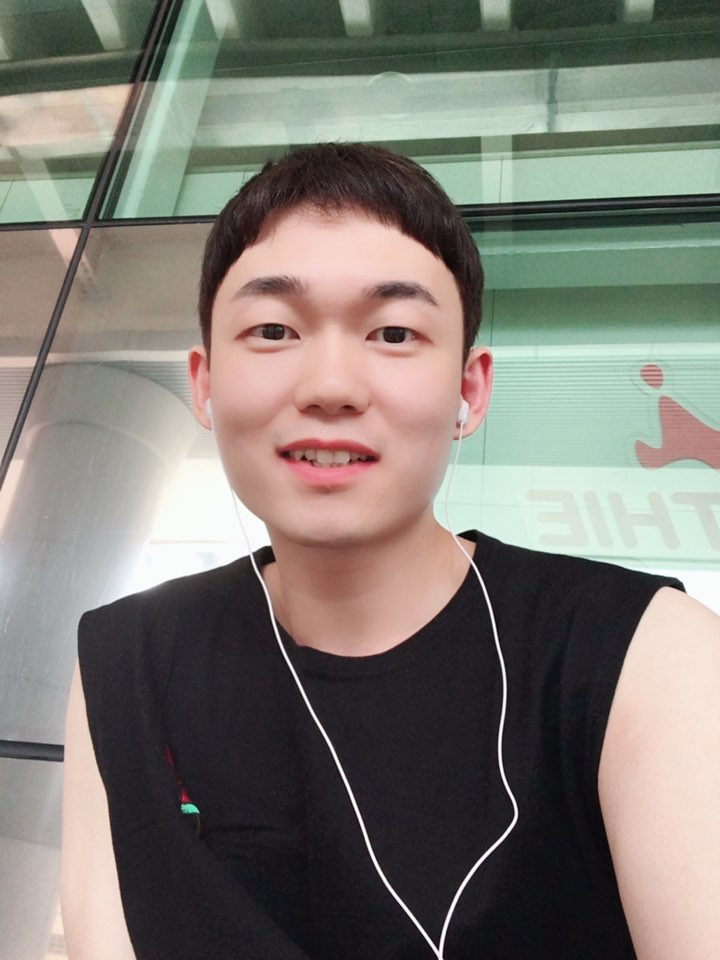
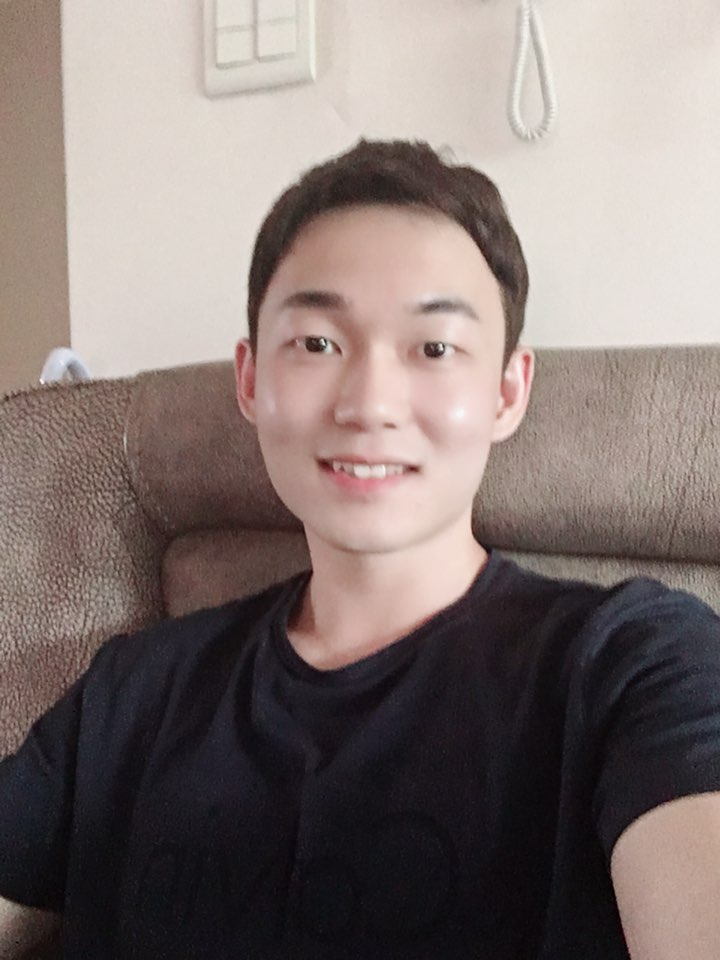
refactor: Make better

diff --git a/index.html b/index.html
@@ -19,11 +19,11 @@
     <meta charset="utf-8">
     <meta name="viewport"
           content="user-scalable=no,initial-scale=1.0,maximum-scale=1.0,minimum-scale=1.0,width=device-width">
-    <meta name="description" content="개발자..가 되고픈 진우의 이력서입니다. "/>
+    <meta name="description" content="열정 넘치는 진우의 이력서입니다! "/>
     <meta property="og:url" content="https://jinuman.github.io/resume"/>
     <meta property="og:site_name" content="지누맨 이력서"/>
     <meta property="og:title" content="지누맨 이력서"/>
-    <meta property="og:description" content="개발자..가 되고픈 진우의 이력서입니다. "/>
+    <meta property="og:description" content="열정 넘치는 진우의 이력서입니다! "/>
     <meta property="og:image" content="https://jinuman.github.io/resume/public/images/profile-og.jpeg"/>
     <meta property="og:type" content="website"/>
 
@@ -53,7 +53,7 @@
     <!-- Profile Start -->
     <div class="row mt-5">
         <div class="col-md-3 col-sm-12 pb-3 text-md-right text-center">
-            <img class="img-fluid rounded profile-img" src="public/images/profile-resize.jpg" alt="Profile">
+            <img class="img-fluid rounded profile-img" src="public/images/profileImage.jpg" alt="Profile">
         </div>
         <div class="col-md-9 col-sm-12">
             <div class="row">
@@ -151,7 +151,7 @@
                 <span class="blue">
                   SKILLS
                 </span>
-                        <small data-toggle="tooltip" title="1: 기초 / 2: 취미 / 3: 개발자">
+                        <small data-toggle="tooltip" title="1: 기초 / 2: 중급 / 3: 고급">
                             <i class="fa fa-question-circle" aria-hidden="true"></i>
                         </small>
                     </h2>
@@ -210,8 +210,8 @@
                                     Unit Test
                                 </li>
                                 <li>
-                                    <span class="badge badge-pill badge-light">1</span>
-                                    Profiler
+                                    <span class="badge badge-pill badge-secondary">2</span>
+                                    Instruments Profiler
                                 </li>
                                 <li>
                                     <span class="badge badge-pill badge-light">1</span>
@@ -232,22 +232,22 @@
                     <div class="row">
                         <div class="col">
                             <ul>
-                                <li>Nodejs</li>
                                 <li>Java</li>
-                                <li>Python 3</li>
+                                <li>nodejs</li>
+                                <li>C++</li>
                             </ul>
                         </div>
                         <div class="col">
                             <ul>
                                 <li>tensorflow</li>
-                                <li>MongoDB</li>
-                                <li>HTML, Bootstrap</li>
+                                <li>python 3</li>
+                                <li>mongodb</li>
                             </ul>
                         </div>
                         <div class="col">
                             <ul>
                                 <li>Git, Github</li>
-                                <li>Github Desktop</li>
+                                <li>Sublime Text</li>
                                 <li>Jetbrains</li>
                             </ul>
                         </div>
@@ -273,7 +273,7 @@
 
                     <div class="row">
                         <div class="col-md-3 col-12 text-md-right">
-                            <h4 class="gray">2010. 03 ~ 2019. 02</h4>
+                            <h4 class="gray">2010.03 ~ 2019.02</h4>
                         </div>
                         <div class="col-md-9 col-12">
                             <h4>경희대학교 졸업</h4>
@@ -292,14 +292,14 @@
 
                     <div class="row">
                         <div class="col-md-3 col-12 text-md-right">
-                            <h4 class="gray">2009. 02 ~ 2010. 03</h4>
+                            <h4 class="gray">2009.02 ~ 2010.03</h4>
                         </div>
                         <div class="col-md-9 col-12">
                             <h4>재수</h4>
                             <i class="gray">독서실에서 재수 생활</i>
                             <ul class="pt-2">
                                 <li>비약적인 수능점수 상승</li>
-                                <li>수리가형 5등급에서 1등급 99프로로 상승</li>
+                                <li>수리가형 5등급에서 1등급 99프로로 ↑</li>
                             </ul>
                         </div>
                     </div>
@@ -307,7 +307,7 @@
 
                     <div class="row">
                         <div class="col-md-3 col-12 text-md-right">
-                            <h4 class="gray">2006. 03 ~ 2009. 02</h4>
+                            <h4 class="gray">2006.03 ~ 2009.02</h4>
                         </div>
                         <div class="col-md-9 col-12">
                             <h4>수내고등학교 졸업</h4>
@@ -322,7 +322,7 @@
 
                     <div class="row">
                         <div class="col-md-3 col-12 text-md-right">
-                            <h4 class="gray">Born ~ 2006. 02</h4>
+                            <h4 class="gray">Born ~ 2006.02</h4>
                         </div>
                         <div class="col-md-9 col-12">
                             <h4>~ 고등학생</h4>
@@ -567,7 +567,7 @@
 
                     <div class="row">
                         <div class="col-md-3 col-12 text-md-right">
-                            <h4 class="gray">2018. 04</h4>
+                            <h4 class="gray">2018.04</h4>
                         </div>
                         <div class="col-md-9 col-12">
                             <h4>OPIC</h4>
@@ -578,7 +578,7 @@
 
                     <div class="row">
                         <div class="col-md-3 col-12 text-md-right">
-                            <h4 class="gray">2016. 02 ~ 2017. 02</h4>
+                            <h4 class="gray">2016.02 ~ 2017.02</h4>
                         </div>
                         <div class="col-md-9 col-12">
                             <h4>뉴질랜드 생활</h4>
@@ -589,7 +589,7 @@
 
                     <div class="row">
                         <div class="col-md-3 col-12 text-md-right">
-                            <h4 class="gray">2010. 01 ~ 2011. 11</h4>
+                            <h4 class="gray">2010.01 ~ 2011.11</h4>
                         </div>
                         <div class="col-md-9 col-12">
                             <h4>육군 병장 만기 제대</h4>
@@ -600,7 +600,7 @@
 
                     <div class="row">
                         <div class="col-md-3 col-12 text-md-right">
-                            <h4 class="gray">2000. 01</h4>
+                            <h4 class="gray">2000.01</h4>
                         </div>
                         <div class="col-md-9 col-12">
                             <h4>클린턴 대통령상 수상</h4>
